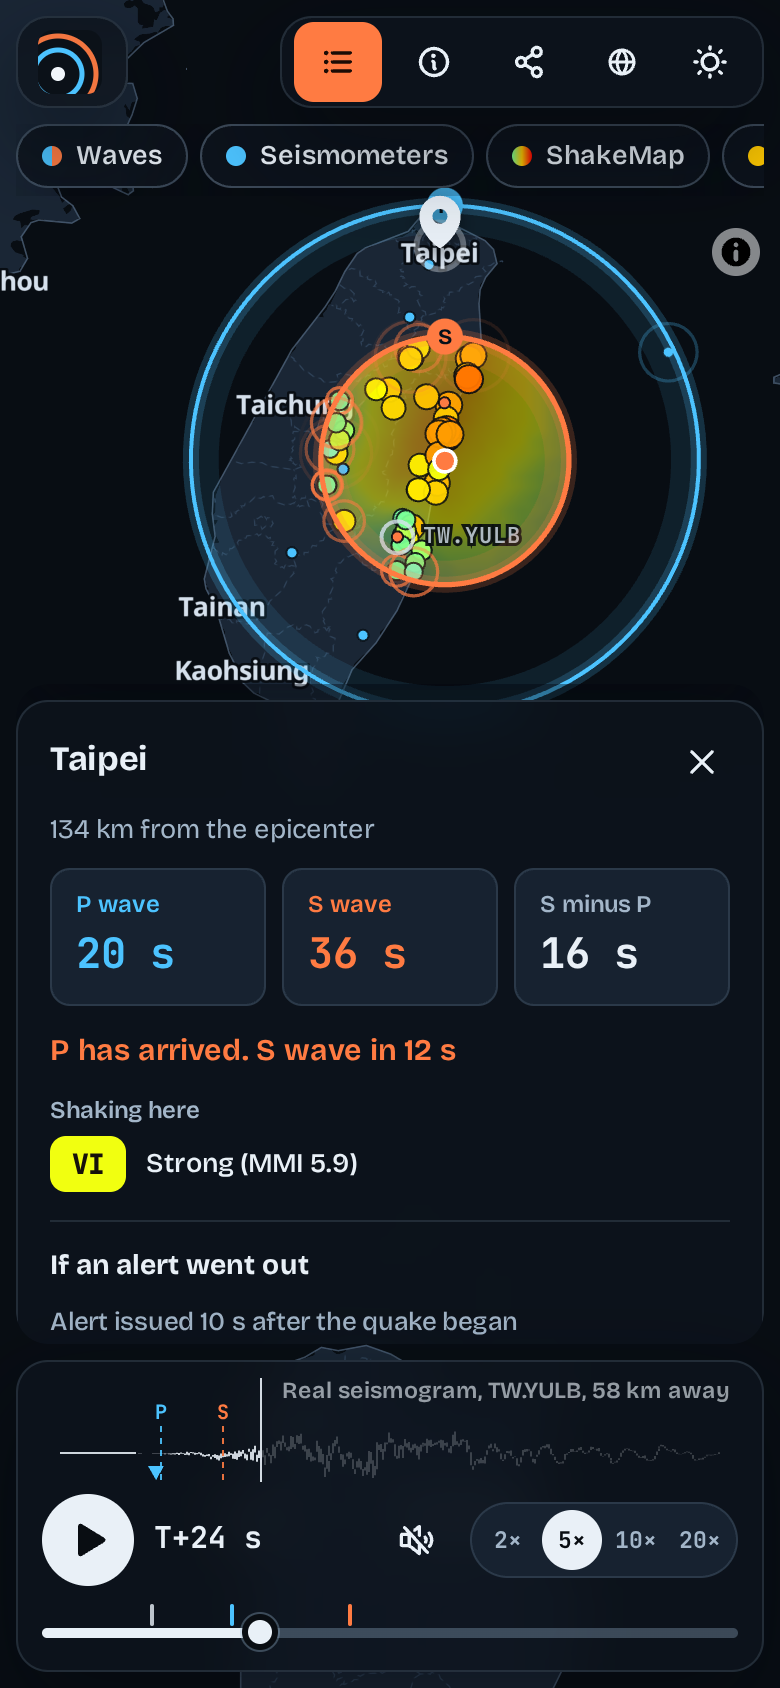
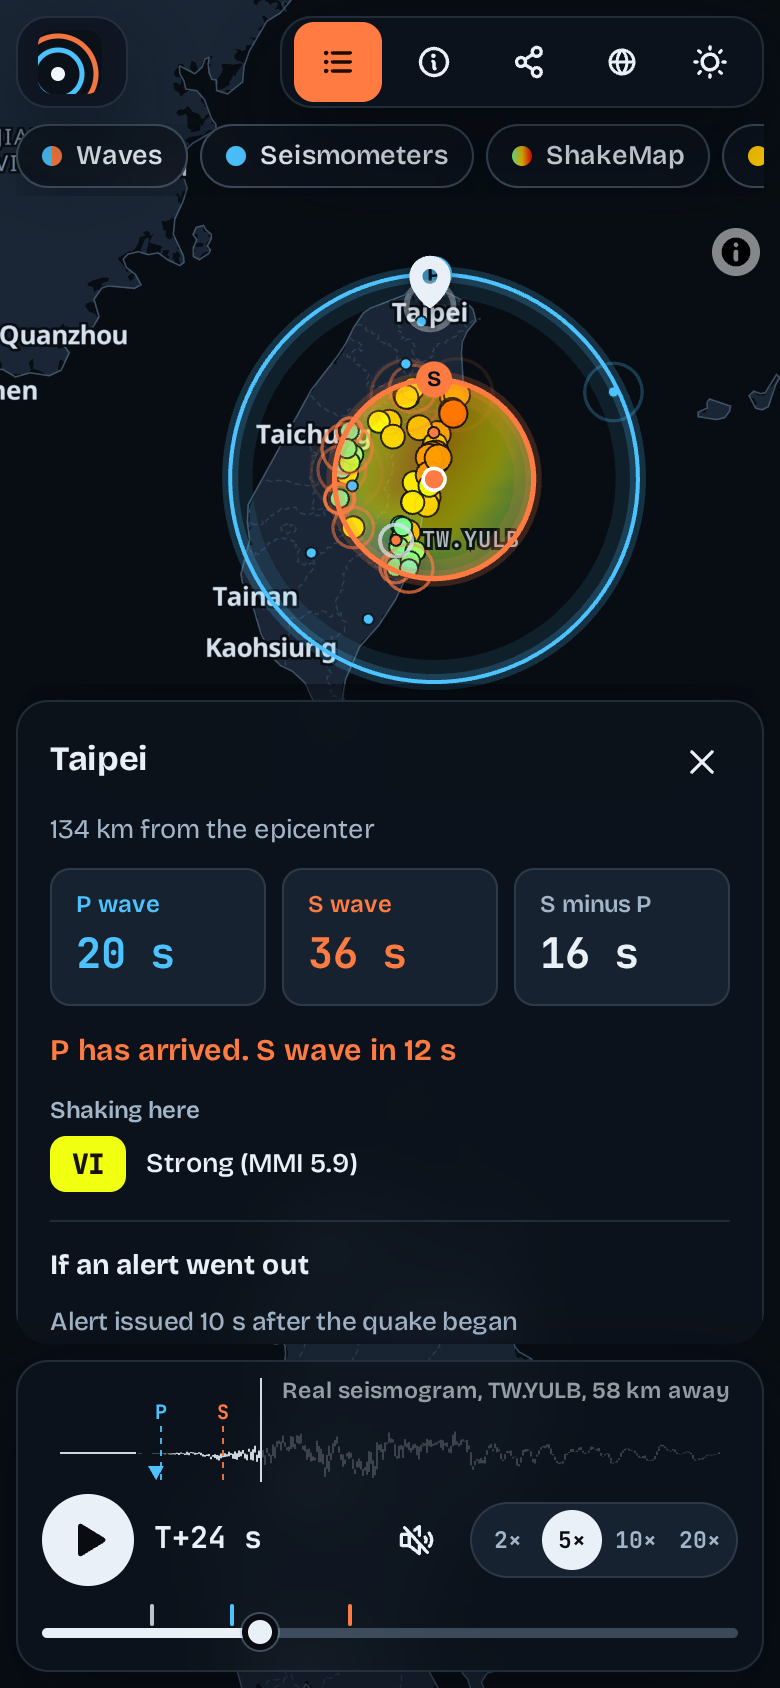
0.3.2: chips in one row sideways, map padding and wave letters follow the real panels, no station ring without the strip, query overlap, docs and Spanish text

diff --git a/src/app/layout.ts b/src/app/layout.ts
@@ -4,8 +4,57 @@
  * pixels is not a screen held sideways, and the page must not change its layout under the finger that is typing.
  */
 export const SHORT = '(max-height: 480px) and (min-aspect-ratio: 17/10)';
-/** A phone held upright: the panel is a sheet above the timeline, and the timeline carries the seismogram strip. The complement of SHORT within the narrow screens. */
-export const PHONE = '(max-width: 820px) and (max-aspect-ratio: 169/100), (max-width: 820px) and (min-height: 481px)';
+/**
+ * A phone held upright: the panel is a sheet above the timeline, and the timeline carries the seismogram strip. It
+ * meets SHORT at an aspect ratio of exactly 17 to 10 and overlaps it there, which is better than a gap that leaves a
+ * window with neither layout. Where both match, SHORT is the one the stylesheet and `layoutKind` prefer.
+ */
+export const PHONE = '(max-width: 820px) and (max-aspect-ratio: 17/10), (max-width: 820px) and (min-height: 481px)';
 
 export const isPhone = (): boolean => window.matchMedia(PHONE).matches;
 export const isShort = (): boolean => window.matchMedia(SHORT).matches;
+
+export type LayoutKind = 'phone' | 'short' | 'desktop';
+
+export const layoutKind = (): LayoutKind => (isShort() ? 'short' : isPhone() ? 'phone' : 'desktop');
+
+/** Where the panels are, in pixels from the top left of the screen. */
+export interface Metrics {
+  width: number;
+  height: number;
+  /** Right edge of the left panel, which a sheet on a phone does not use. */
+  panelRight: number;
+  /** Bottom edge of the layer chips. */
+  chipsBottom: number;
+  /** Top edge of the timeline. */
+  dockTop: number;
+}
+
+export interface Padding {
+  left: number;
+  right: number;
+  top: number;
+  bottom: number;
+}
+
+/**
+ * The space the panels cover, so the map centres the epicenter in what is left. The top follows the chips where they
+ * run across the screen, and the bottom follows the timeline wherever it sits, so a notch or a home indicator, which
+ * move both, are counted without being asked for.
+ */
+export function mapPadding(kind: LayoutKind, m: Metrics): Padding {
+  const fromBottom = m.height - m.dockTop;
+  if (kind === 'phone') {
+    return { left: 12, right: 12, top: Math.max(64, m.chipsBottom + 8), bottom: fromBottom + 8 + Math.min(m.height * 0.42, 330) };
+  }
+  if (kind === 'short') return { left: m.panelRight + 16, right: 16, top: Math.max(56, m.chipsBottom + 8), bottom: fromBottom + 16 };
+  return { left: m.panelRight + 24, right: 24, top: 76, bottom: fromBottom + 22 };
+}
+
+/**
+ * How far from the top and from the bottom of the map a wavefront's letter may sit and still be seen: below the bar
+ * and the chips, above the sheet or the timeline.
+ */
+export function letterBand(kind: LayoutKind, padding: Padding): { top: number; bottom: number } {
+  return kind === 'desktop' ? { top: 62, bottom: Math.max(130, padding.bottom + 6) } : { top: padding.top, bottom: padding.bottom + 6 };
+}

diff --git a/e2e/app.e2e.ts b/e2e/app.e2e.ts
@@ -1030,9 +1030,15 @@ test('a phone held sideways keeps the map: the panel stays at the side, the time
     assert.equal(await page.locator('.dock canvas').isVisible(), false, `no seismogram strip ${where}`);
     assert.ok(dock.x + dock.width <= width && panel.x + panel.width <= width, `nothing leaves the screen ${where}`);
     assert.ok(panel.x + panel.width <= dock.x || panel.y + panel.height <= dock.y, `the panel and the timeline do not overlap ${where}`);
-    // What is left for the map: to the right of the panel and above the timeline.
-    const [free, high] = [width - (panel.x + panel.width), dock.y - 54];
-    assert.ok(free >= 330 && high >= 200, `the map keeps ${free} by ${high} pixels ${where}`);
+    // The chips are one row, which scrolls, so they do not cover a third of the map.
+    const tops = await page
+      .locator('.layers-strip .chip')
+      .evaluateAll((chips) => chips.map((c) => Math.round(c.getBoundingClientRect().top)));
+    assert.equal(new Set(tops).size, 1, `one row of chips ${where}: ${tops}`);
+    const chipsBottom = (await rect('.layers-strip'))!.y + (await rect('.layers-strip'))!.height;
+    // What is left for the map: to the right of the panel, below the chips and above the timeline.
+    const [free, high] = [width - (panel.x + panel.width), dock.y - chipsBottom];
+    assert.ok(free >= 330 && high >= 190, `the map keeps ${free} by ${high} pixels ${where}`);
     // A pin scrolls the panel to its numbers, as it does on an upright phone.
     await page.mouse.click(panel.x + panel.width + free / 2, 150);
     await page.locator('.pin-live').waitFor();
@@ -1078,6 +1084,8 @@ test('the controls keep clear of a notch and a home indicator', async () => {
     const where = `at ${width} px wide`;
     assert.ok(topbar!.y >= insets.top, `the top bar starts under the notch ${where}: ${topbar!.y}`);
     assert.ok(topbar!.x >= insets.left, `the logo starts under the notch edge ${where}: ${topbar!.x}`);
+    const chips = (await box('.layers-strip'))!;
+    assert.ok(chips.y >= insets.top && chips.x >= insets.left, `the chips start under the notch ${where}: ${chips.x},${chips.y}`);
     assert.ok(dock!.y + dock!.height <= height - insets.bottom, `the timeline sits on the home indicator ${where}`);
     assert.ok(dock!.x + dock!.width <= width - insets.right, `the timeline reaches under the notch edge ${where}`);
     assert.ok(panel!.x >= insets.left, `the panel starts under the notch edge ${where}: ${panel!.x}`);

diff --git a/test/layout.test.ts b/test/layout.test.ts
@@ -1,0 +1,34 @@
+import assert from 'node:assert/strict';
+import { test } from 'node:test';
+import { letterBand, mapPadding, type Metrics } from '../src/app/layout.ts';
+
+const desktop: Metrics = { width: 1440, height: 900, panelRight: 372, chipsBottom: 112, dockTop: 900 - 14 - 142 };
+const phone: Metrics = { width: 390, height: 844, panelRight: 382, chipsBottom: 102, dockTop: 844 - 8 - 150 };
+const sideways: Metrics = { width: 844, height: 390, panelRight: 316, chipsBottom: 94, dockTop: 390 - 8 - 56 };
+
+test('the map keeps clear of the panels on a desktop, as it always has', () => {
+  assert.deepEqual(mapPadding('desktop', desktop), { left: 396, right: 24, top: 76, bottom: 142 + 14 + 22 });
+});
+
+test('on a phone the top follows the chips and the bottom the timeline plus the sheet above it', () => {
+  const p = mapPadding('phone', phone);
+  assert.equal(p.top, 110);
+  assert.equal(p.bottom, 8 + 150 + 8 + 330 - 0 + 0 - 0 + 0 - 0 + 0 - 0 + 0 - 0 + 0 - 0 + 0 - 0 + 0 + 0 - 0);
+  assert.equal(p.left, 12);
+  // A notch moves the chips down and a home indicator moves the timeline up, and the padding follows both.
+  const notched = mapPadding('phone', { ...phone, chipsBottom: phone.chipsBottom + 47, dockTop: phone.dockTop - 34 });
+  assert.equal(notched.top, p.top + 47);
+  assert.equal(notched.bottom, p.bottom + 34);
+  // The sheet is never more than 42 percent of a short screen.
+  assert.equal(mapPadding('phone', { ...phone, height: 600, dockTop: 600 - 158 }).bottom, 158 + 8 + 0.42 * 600);
+});
+
+test('sideways the map keeps what is right of the panel, below the chips and above the timeline', () => {
+  assert.deepEqual(mapPadding('short', sideways), { left: 332, right: 16, top: 102, bottom: 56 + 8 + 16 });
+});
+
+test('the letters of the wavefronts stay in what is clear of the bar, the chips and the sheet', () => {
+  assert.deepEqual(letterBand('desktop', mapPadding('desktop', desktop)), { top: 62, bottom: 178 + 6 });
+  assert.deepEqual(letterBand('desktop', { left: 0, right: 0, top: 76, bottom: 90 }), { top: 62, bottom: 130 });
+  assert.deepEqual(letterBand('phone', mapPadding('phone', phone)), { top: 110, bottom: mapPadding('phone', phone).bottom + 6 });
+});

diff --git a/src/app/app.ts b/src/app/app.ts
@@ -22,7 +22,7 @@ import { createLayers } from './layers.ts';
 import { createPanel } from './panel.ts';
 import { createPicker } from './picker.ts';
 import { createShare } from './share.ts';
-import { isPhone, isShort } from './layout.ts';
+import { layoutKind, letterBand, mapPadding } from './layout.ts';
 import { clock, get, seek, set, START, subscribe, type LayerKey, type Pin, type ThemeChoice } from './state.ts';
 import type { Theme } from './style.ts';
 
@@ -441,6 +441,8 @@ export async function start(): Promise<void> {
     if (s.pin !== prev.pin) syncPin();
     if (s.quake?.seismogram !== prev.quake?.seismogram) layoutPadding();
     if (s.theme !== prev.theme || s.lang !== prev.lang) applyLook();
+    // The chips change length with the language, and a longer row can wrap onto another line.
+    if (s.lang !== prev.lang) layoutPadding();
     dirty = true;
   });
 
@@ -575,15 +577,17 @@ export async function start(): Promise<void> {
 
   // Layout: the map centres the epicenter in the space the panels leave free.
   function layoutPadding(): void {
-    const dockH = dockEl.getBoundingClientRect().height;
-    const aside = panelEl.getBoundingClientRect().right + 24;
-    view.setPadding(
-      isPhone()
-        ? { left: 12, right: 12, top: 64, bottom: Math.min(window.innerHeight * 0.42, 330) + dockH }
-        : isShort()
-          ? { left: aside - 8, right: 16, top: 56, bottom: dockH + 24 }
-          : { left: aside, right: 24, top: 76, bottom: dockH + 36 },
-    );
+    const kind = layoutKind();
+    const padding = mapPadding(kind, {
+      width: window.innerWidth,
+      height: window.innerHeight,
+      panelRight: panelEl.getBoundingClientRect().right,
+      chipsBottom: layersEl.getBoundingClientRect().bottom,
+      dockTop: dockEl.getBoundingClientRect().top,
+    });
+    view.setPadding(padding);
+    overlay.setClear(letterBand(kind, padding));
+    overlay.setStation(kind !== 'short');
   }
   window.addEventListener('resize', () => {
     overlay.resize();

diff --git a/src/app/overlay.ts b/src/app/overlay.ts
@@ -107,6 +107,10 @@ export class Overlay {
 
   /** The frame on screen, which says what is lit and which layers show. */
   private shown: Frame | null = null;
+  /** How far from the top and from the bottom of the map a wavefront's letter may sit and still be seen. */
+  private clear = { top: 62, bottom: 130 };
+  /** Whether the seismogram strip, and so the station it comes from, is on screen. */
+  private station = true;
 
   private readonly map: Map;
   readonly canvas: HTMLCanvasElement;
@@ -118,6 +122,14 @@ export class Overlay {
     map.on('move', () => (this.proj.dirty = true));
     map.on('resize', () => this.resize());
     this.resize();
+  }
+
+  setClear(clear: { top: number; bottom: number }): void {
+    this.clear = clear;
+  }
+
+  setStation(show: boolean): void {
+    this.station = show;
   }
 
   resize(): void {
@@ -238,7 +250,7 @@ export class Overlay {
     if (f.layers.instruments) this.drawInstruments(f, ripple, c);
     if (f.layers.picks) {
       this.drawPicks(f, ripple, c);
-      this.drawStation(f, center, c);
+      if (this.station) this.drawStation(f, center, c);
     }
     if (f.layers.waves) {
       for (const wave of ['S', 'P'] as const) this.drawWave(f, wave, epi, c);
@@ -305,7 +317,7 @@ export class Overlay {
     // The letter sits on the highest part of the ring that is on screen, below the top bar.
     let top: [number, number] | null = null;
     for (const p of outer) {
-      if (p[1] < 62 || p[1] > this.height - 130 || p[0] < 16 || p[0] > this.width - 16) continue;
+      if (p[1] < this.clear.top || p[1] > this.height - this.clear.bottom || p[0] < 16 || p[0] > this.width - 16) continue;
       if (!top || p[1] < top[1]) top = p;
     }
     if (!top) return;

diff --git a/src/styles/app.css b/src/styles/app.css
@@ -1502,7 +1502,7 @@ dialog.sheet::backdrop {
 }
 
 /* A phone held upright: the panel is a sheet above the timeline, which carries the seismogram strip. */
-@media (max-width: 820px) and (max-aspect-ratio: 169/100), (max-width: 820px) and (min-height: 481px) {
+@media (max-width: 820px) and (max-aspect-ratio: 17/10), (max-width: 820px) and (min-height: 481px) {
   :root {
     --dock-h: 98px;
   }
@@ -1623,8 +1623,19 @@ dialog.sheet::backdrop {
   .topbar-actions {
     height: 40px;
   }
+  /* One row that scrolls, as on an upright phone: the six chips are wider than what the panel leaves, and a second or a
+     third row would cover a third of the map. */
   .layers-strip {
     top: calc(54px + var(--sat));
+    flex-wrap: nowrap;
+    justify-content: flex-start;
+    overflow-x: auto;
+    padding-bottom: 4px;
+    scrollbar-width: none;
+    pointer-events: auto;
+  }
+  .layers-strip .chip {
+    flex: none;
   }
   .panel {
     top: calc(54px + var(--sat));

diff --git a/CHANGELOG.md b/CHANGELOG.md
@@ -1,5 +1,24 @@
 # Changelog
 
+## 0.3.2
+
+Released 2026-10-10.
+
+Fixed
+
+- Sideways, the six layer chips were two or three rows that covered a third of the map. They are one row that scrolls.
+- The map's opening view and the P and S letters on the wavefronts followed fixed numbers, so a notch or a home
+  indicator put the epicenter or a letter behind the chips, the sheet or the timeline. They follow where those really
+  are now, and the letters keep out of the strip of map they cover.
+- Sideways, the ring and name of the station behind the seismogram were still drawn, with no strip for them to point at.
+- A window of 815 by 479 pixels matched neither the upright phone layout nor the sideways one. The two now meet at
+  the same aspect ratio instead of leaving a gap.
+- The clip asks for MP4 without a codec level. A low level pinned in the request is too small for a 720p frame.
+- The usage guide said the pin card gives the same facts as the hover cards on dots. It does not: station picks,
+  instrument readings and felt counts are for a mouse only, and the guide says so.
+- The Spanish text of the felt report card reads naturally.
+- The zoom key test pressed minus while the map was still zooming in, and failed on a slow machine.
+
 ## 0.3.1
 
 Released 2026-10-10.

diff --git a/docs/USAGE.md b/docs/USAGE.md
@@ -75,7 +75,9 @@ Space plays and pauses, the arrow keys step the clock, and plus and minus zoom t
 screen reader is told when the replay reaches your pin: one polite message when the P wave arrives (with the
 seconds until the S wave), one when the S wave arrives (with the shaking there) and one at the alert time (with
 the seconds it would have given you). Nothing is read out while you scrub or jump to another moment. The hover card
-for dots is for a mouse, and the numbers on the pin card give the same facts as text.
+for dots is for a mouse only, so a keyboard, a touch screen or a screen reader does not reach the station picks,
+the instrument readings or the felt report counts. The pin card is plain text, with the arrival times and the
+shaking at your place.
 
 ## Share
 
